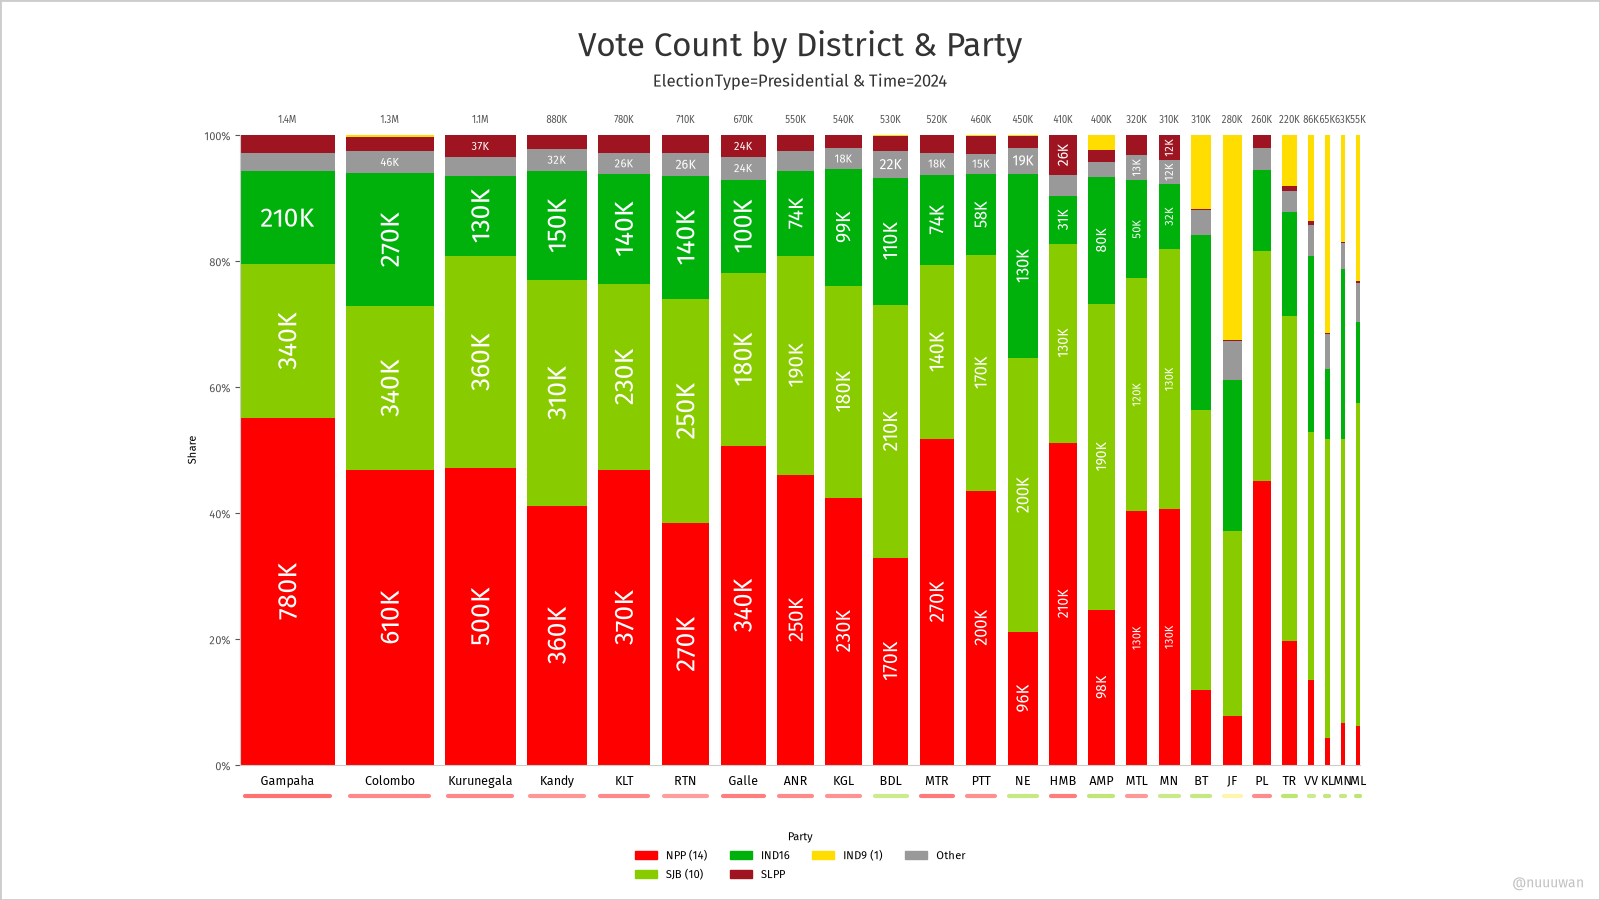
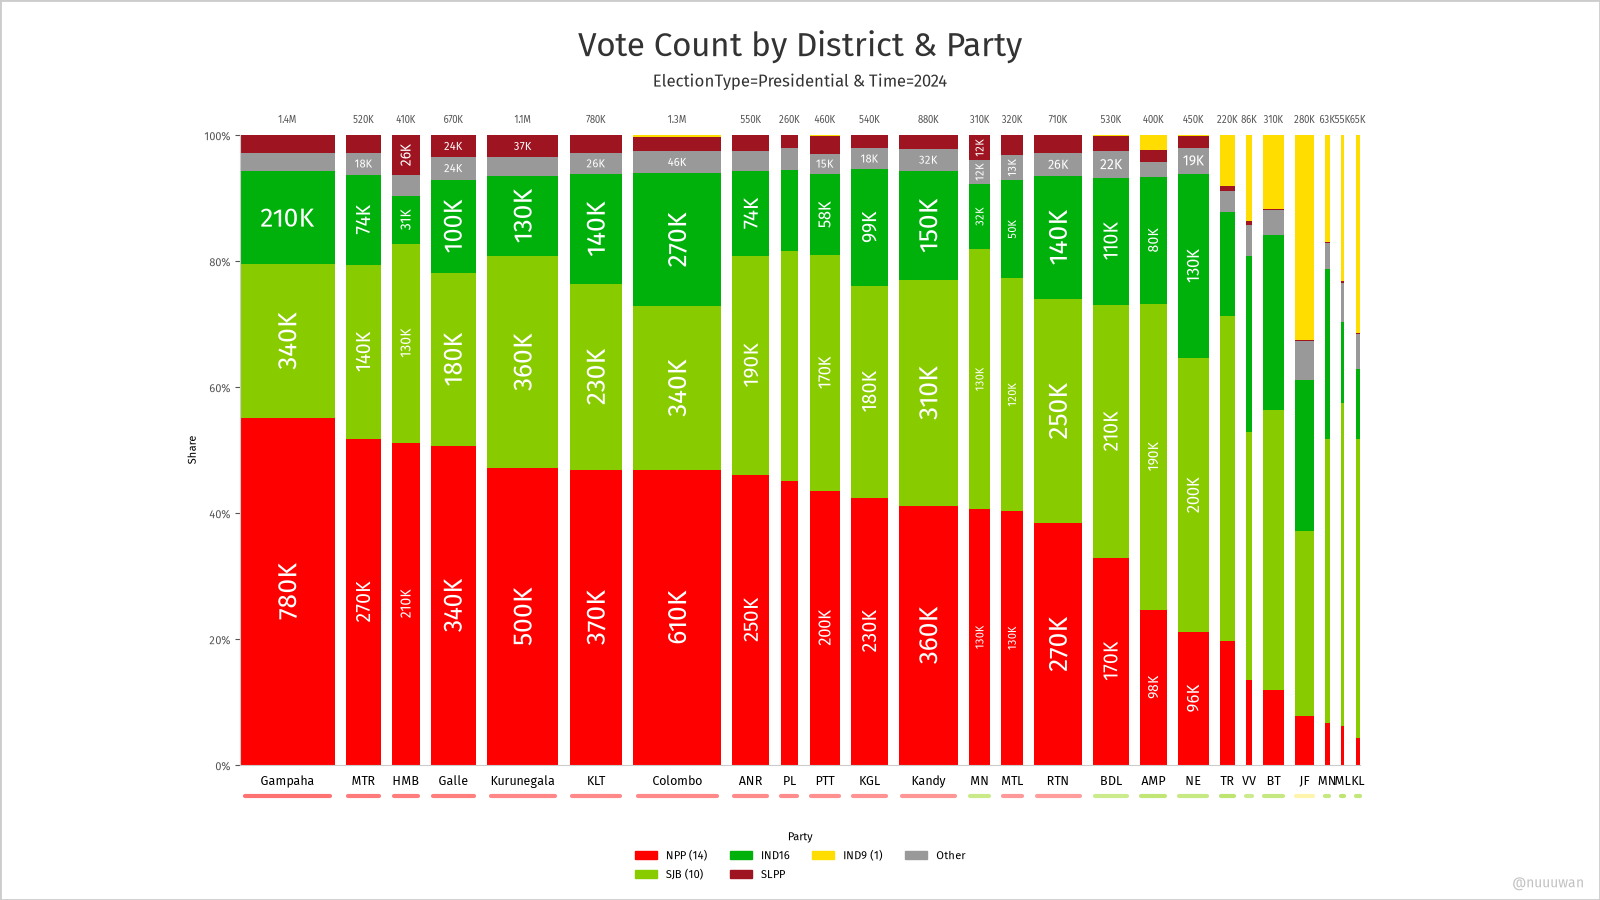
Order MekkoChart by most common global stack dimension share

Changed region(s): [[0.2188, 0.1244, 0.8438, 0.9022]]

diff --git a/tests/test_mekko_chart.py b/tests/test_mekko_chart.py
@@ -1,0 +1,48 @@
+import unittest
+
+from ds.datum.Datum import Datum
+from ds.datumset.Datumset import Datumset
+from ds.query.Query import Query
+from ds.thing.concept.atom.Int import Int
+from ds.visual.VisualFactory import VisualFactory
+
+
+class TestCase(unittest.TestCase):
+
+    def _build_mekko(self, data):
+        query = Query("Entity/X+Y/Count/MekkoChart")
+        datums = [
+            Datum(
+                query,
+                {"X": Int(x), "Y": Int(y)},
+                {"Count": Int(value)},
+            )
+            for x, y, value in data
+        ]
+        datumset = Datumset(*datums)
+        MekkoChart = VisualFactory["MekkoChart"]
+        return MekkoChart(datumset)
+
+    def test_x_order_by_dominant_stack_share(self):
+        data = [
+            ("a", "alpha", 90),
+            ("a", "beta", 10),
+            ("b", "alpha", 50),
+            ("b", "beta", 50),
+            ("c", "alpha", 30),
+            ("c", "beta", 70),
+        ]
+        mekko = self._build_mekko(data)
+        x_labels, _, _ = mekko._get_data(mekko.display_datumsets[0])
+        self.assertEqual(x_labels, ["alpha", "beta"])
+
+    def test_x_order_with_tied_shares(self):
+        data = [
+            ("a", "alpha", 50),
+            ("a", "beta", 50),
+            ("b", "alpha", 50),
+            ("b", "beta", 50),
+        ]
+        mekko = self._build_mekko(data)
+        x_labels, _, _ = mekko._get_data(mekko.display_datumsets[0])
+        self.assertEqual(len(x_labels), 2)

diff --git a/src/ds/visual/mekko/MekkoChart.py b/src/ds/visual/mekko/MekkoChart.py
@@ -14,6 +14,13 @@ class MekkoChart(
     def _excluded_dim_keys(self):
         return {self.x_dim_key, self.stack_dim_key}
 
+    def _get_x_order(self):
+        return self._get_x_dominant_share_order(
+            self.x_dim_key,
+            self.y_cell_key,
+            self.stack_dim_key,
+        )
+
     def _plot(self, fig, ax):
         axes, n_datumsets = self._get_display_axes(
             fig,
